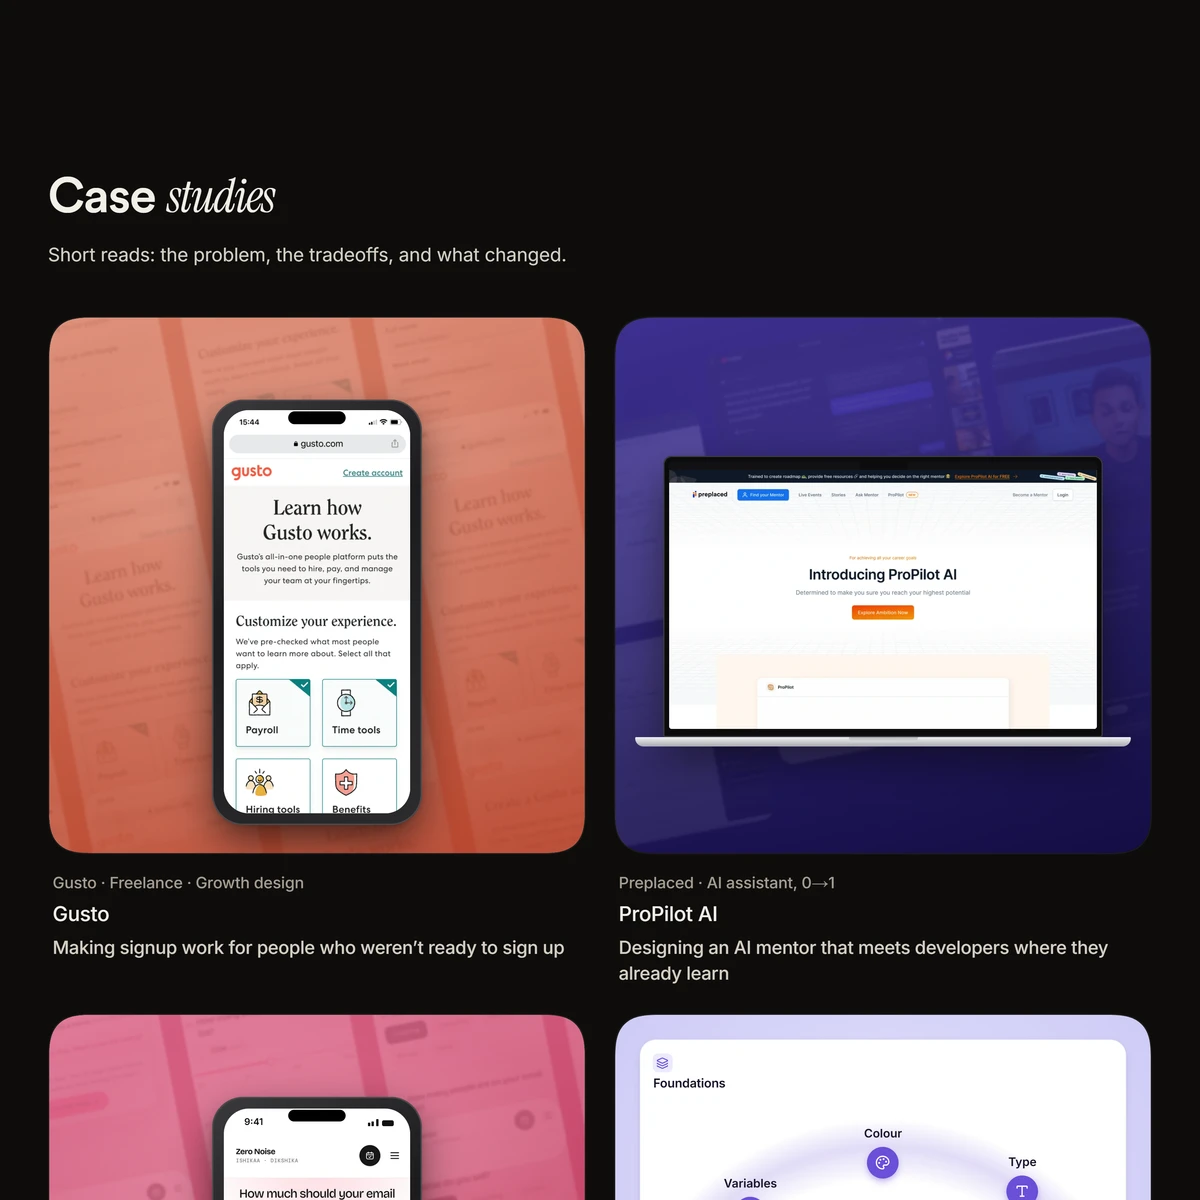
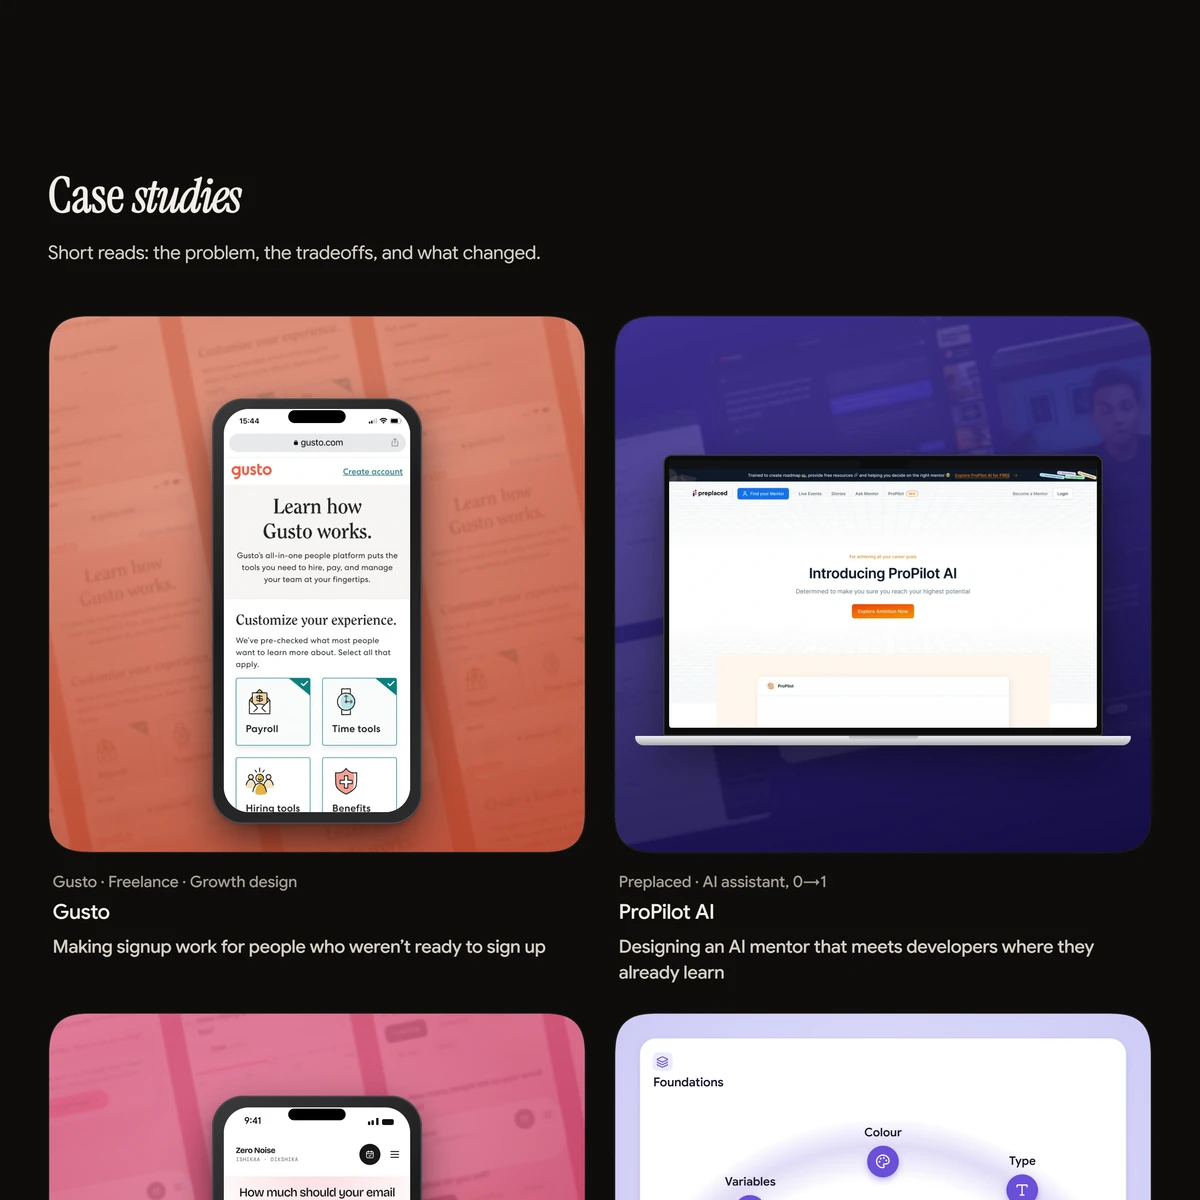
Type: Instrument Serif (thickened) for every heading, Google Sans everywhere else
Instrument Serif has a single weight, so headings get a hairline outline in
their own colour for a bolder look. Google Sans replaces Inter for body and
Geist Mono for labels; Circular Std and Inter Tight are no longer used.

diff --git a/src/app/(site)/layout.tsx b/src/app/(site)/layout.tsx
@@ -1,22 +1,11 @@
 import type { Metadata } from "next";
-import {
-  Gaegu,
-  Geist_Mono,
-  Instrument_Sans,
-  Instrument_Serif,
-  Inter,
-  Inter_Tight,
-} from "next/font/google";
+import { Gaegu, Google_Sans, Instrument_Sans, Instrument_Serif } from "next/font/google";
 import "./globals.css";
 import { Motion } from "@/components/motion";
 import { BackToTop } from "@/components/back-to-top";
 
-// Headings: a tight, highly legible grotesk (the pattern most inspiration sites share).
-const interTight = Inter_Tight({ variable: "--font-heading-face", subsets: ["latin"], display: "swap" });
-// Labels and metadata
-const geistMono = Geist_Mono({ variable: "--font-mono-face", subsets: ["latin"], display: "swap", preload: false });
-
-// Italic accents (headline, section highlights, quotes): Instrument Serif.
+// Headings and italic accents: Instrument Serif (licensed). It has one weight; headings are thickened in
+// globals.css (a hairline outline in the text colour) for the bolder look.
 const editorial = Instrument_Serif({
   variable: "--font-editorial-face",
   weight: "400",
@@ -32,8 +21,8 @@ const instrumentSans = Instrument_Sans({ variable: "--font-instrument-sans", sub
 // 300/400/700; 700 is its semibold-ish weight. Loaded only when used.
 const hand = Gaegu({ variable: "--font-hand", weight: ["400", "700"], subsets: ["latin"], display: "swap", preload: false });
 
-// Body text
-const bodyFont = Inter({ variable: "--font-body", subsets: ["latin"], display: "swap" });
+// Everything else (body, labels, UI): Google Sans (licensed), variable 400–700.
+const bodyFont = Google_Sans({ variable: "--font-body", subsets: ["latin"], display: "swap" });
 
 const title = "Muskan Bhatia — Product Designer";
 const description =
@@ -74,7 +63,7 @@ export default function RootLayout({ children }: LayoutProps<"/">) {
     <html
       lang="en"
       suppressHydrationWarning
-      className={`${interTight.variable} ${geistMono.variable} ${editorial.variable} ${instrumentSans.variable} ${hand.variable} ${bodyFont.variable} h-full antialiased`}
+      className={`${editorial.variable} ${instrumentSans.variable} ${hand.variable} ${bodyFont.variable} h-full antialiased`}
     >
       <body className="flex min-h-full flex-col bg-background text-ink" suppressHydrationWarning>
         <script

diff --git a/src/app/(site)/globals.css b/src/app/(site)/globals.css
@@ -75,11 +75,11 @@ body {
   --color-live: var(--color-live);
   --font-sans: var(--font-body);
   --font-editorial: var(--font-editorial-face), Georgia, serif;
-  --font-display: "Circular Std", var(--font-heading-face), Arial, sans-serif;
+  --font-display: var(--font-editorial-face), Georgia, serif;
   --font-serif: var(--font-editorial-face), Georgia, serif;
   /* Hindi, Chinese and Japanese greeting words use the visitor's system fonts (no extra downloads). */
   --font-scripts: "Noto Sans Devanagari", "Nirmala UI", Mangal, "PingFang SC", "Hiragino Sans", "Microsoft YaHei", "Yu Gothic", "Noto Sans CJK SC", "Noto Sans CJK JP";
-  --font-mono: var(--font-mono-face), ui-monospace, monospace;
+  --font-mono: var(--font-body), ui-sans-serif, system-ui, sans-serif;
   --font-accent: var(--font-display);
   --ease-out-expo: cubic-bezier(0.22, 1, 0.36, 1);
 
@@ -1721,3 +1721,16 @@ html[data-motion="paused"] .cv-scroll__page { animation: none; }
   .bn-prog__fill { width: 70%; }
 }
 html[data-motion="paused"] .bn * { animation-play-state: paused !important; }
+
+/* Type: Instrument Serif for every heading, made bolder (it ships in one weight, so a hairline outline in
+   the text's own colour thickens it), and Google Sans for everything else, labels included. */
+:root { --font-mono-face: var(--font-body); }
+:where(h1, h2, h3, h4):not(.font-mono),
+[class*="t-display"],
+.case-title, .case-h2, .case-deck-h {
+  font-family: var(--font-display);
+  font-weight: 400;
+  font-synthesis: none;
+  -webkit-text-stroke: 0.02em currentColor;
+  letter-spacing: 0.005em;
+}
